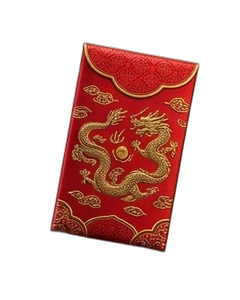
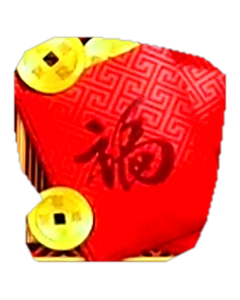
feat: 5종 심볼(영구·금붕·봉황·홍포·서사) 고해상도 슈퍼샘플링 및 채도·대비 강화 에셋 반영

diff --git a/temp/test_39_hybrid_tiles.html b/temp/test_39_hybrid_tiles.html
@@ -366,7 +366,7 @@
         ]
       },
       oryong: {
-        title: "오룡이(五龍) 슬롯머신 신수·보물 10종",
+        title: "오룡이(五龍) 슬롯머신 신수·보물 12종",
         desc: "오룡 슬롯머신 테마의 5대 용과 수호신수 및 행운의 보물 패",
         items: [
           { id: 'oryong_white', badge: '白', color: '#546e7a', sub: '백룡', seal: '白龍', name: '백룡 (눈꽃 서리 백룡)' },
@@ -378,7 +378,9 @@
           { id: 'oryong_turtle', badge: '龜', color: '#43a047', sub: '영구', seal: '靈龜', name: '영구 (장수와 지혜의 신령거북)' },
           { id: 'oryong_tiger', badge: '虎', color: '#78909c', sub: '백호', seal: '白虎', name: '백호 (비취 목걸이를 한 용맹한 백호)' },
           { id: 'oryong_coin', badge: '錢', color: '#ffb300', sub: '금전', seal: '金錢', name: '금전 (24K 순금 건륭통보 엽전)' },
-          { id: 'oryong_envelope', badge: '喜', color: '#c2185b', sub: '홍포', seal: '紅包', name: '홍포 (복과 재물을 부르는 황금용 세뱃돈봉투)' }
+          { id: 'oryong_envelope', badge: '喜', color: '#c2185b', sub: '홍포', seal: '紅包', name: '홍포 (복과 재물을 부르는 황금용 세뱃돈봉투)' },
+          { id: 'oryong_phoenix', badge: '鳳', color: '#ff6f00', sub: '봉황', seal: '鳳凰', name: '봉황 (신수 황금 주작 봉황)' },
+          { id: 'oryong_lion', badge: '獅', color: '#fbc02d', sub: '서사', seal: '瑞獅', name: '서사 (재물과 수호의 황금 사자상)' }
         ]
       },
       dragon_heads: {

diff --git a/majongMain.html b/majongMain.html
@@ -5684,6 +5684,8 @@
       { id: 'oryong_tiger', suit: 'oryong', val: 'tiger', label: '白虎', badge: '虎', render: () => SvgFactory.sajuHybrid('oryong_tiger', '虎', '#78909c', '백호', '白虎') },
       { id: 'oryong_coin', suit: 'oryong', val: 'coin', label: '金錢', badge: '錢', render: () => SvgFactory.sajuHybrid('oryong_coin', '錢', '#ffb300', '금전', '金錢') },
       { id: 'oryong_envelope', suit: 'oryong', val: 'envelope', label: '紅包', badge: '喜', render: () => SvgFactory.sajuHybrid('oryong_envelope', '喜', '#c2185b', '홍포', '紅包') },
+      { id: 'oryong_phoenix',  suit: 'oryong', val: 'phoenix',  label: '鳳凰', badge: '鳳', render: () => SvgFactory.sajuHybrid('oryong_phoenix',  '鳳', '#ff6f00', '봉황', '鳳凰') },
+      { id: 'oryong_lion',     suit: 'oryong', val: 'lion',     label: '瑞獅', badge: '獅', render: () => SvgFactory.sajuHybrid('oryong_lion',     '獅', '#fbc02d', '서사', '瑞獅') },
       // 슬롯머신 7용두(龍頭) 7종
       { id: 'dragon_head_white_tile',  suit: 'dragon_head', val: 'white',  label: '白龍', badge: '白', render: () => SvgFactory.sajuHybrid('dragon_head_white_tile',  '白', '#78909c', '백용두', '白龍') },
       { id: 'dragon_head_red_tile',    suit: 'dragon_head', val: 'red',    label: '赤龍', badge: '赤', render: () => SvgFactory.sajuHybrid('dragon_head_red_tile',    '赤', '#e53935', '적용두', '赤龍') },
